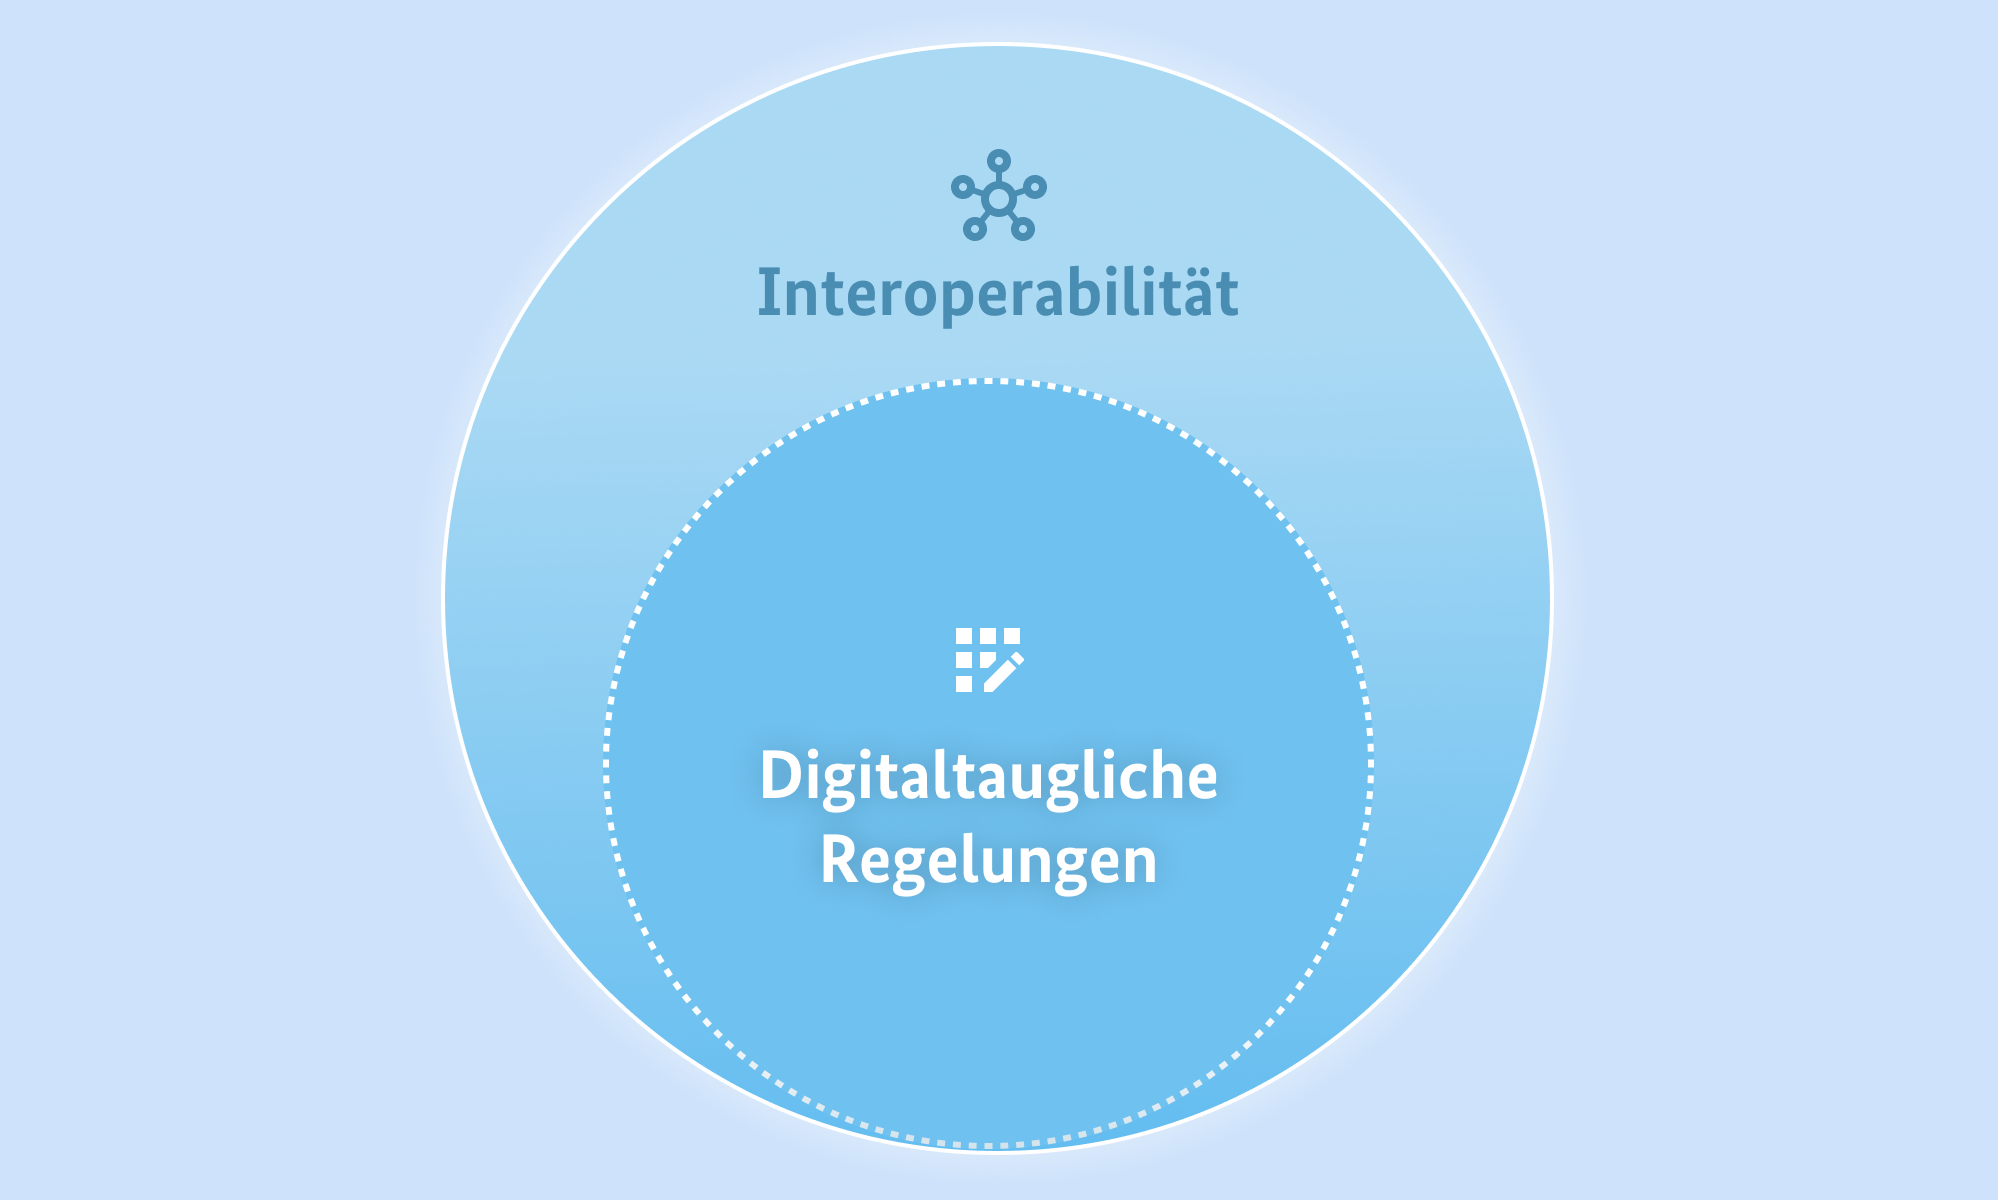
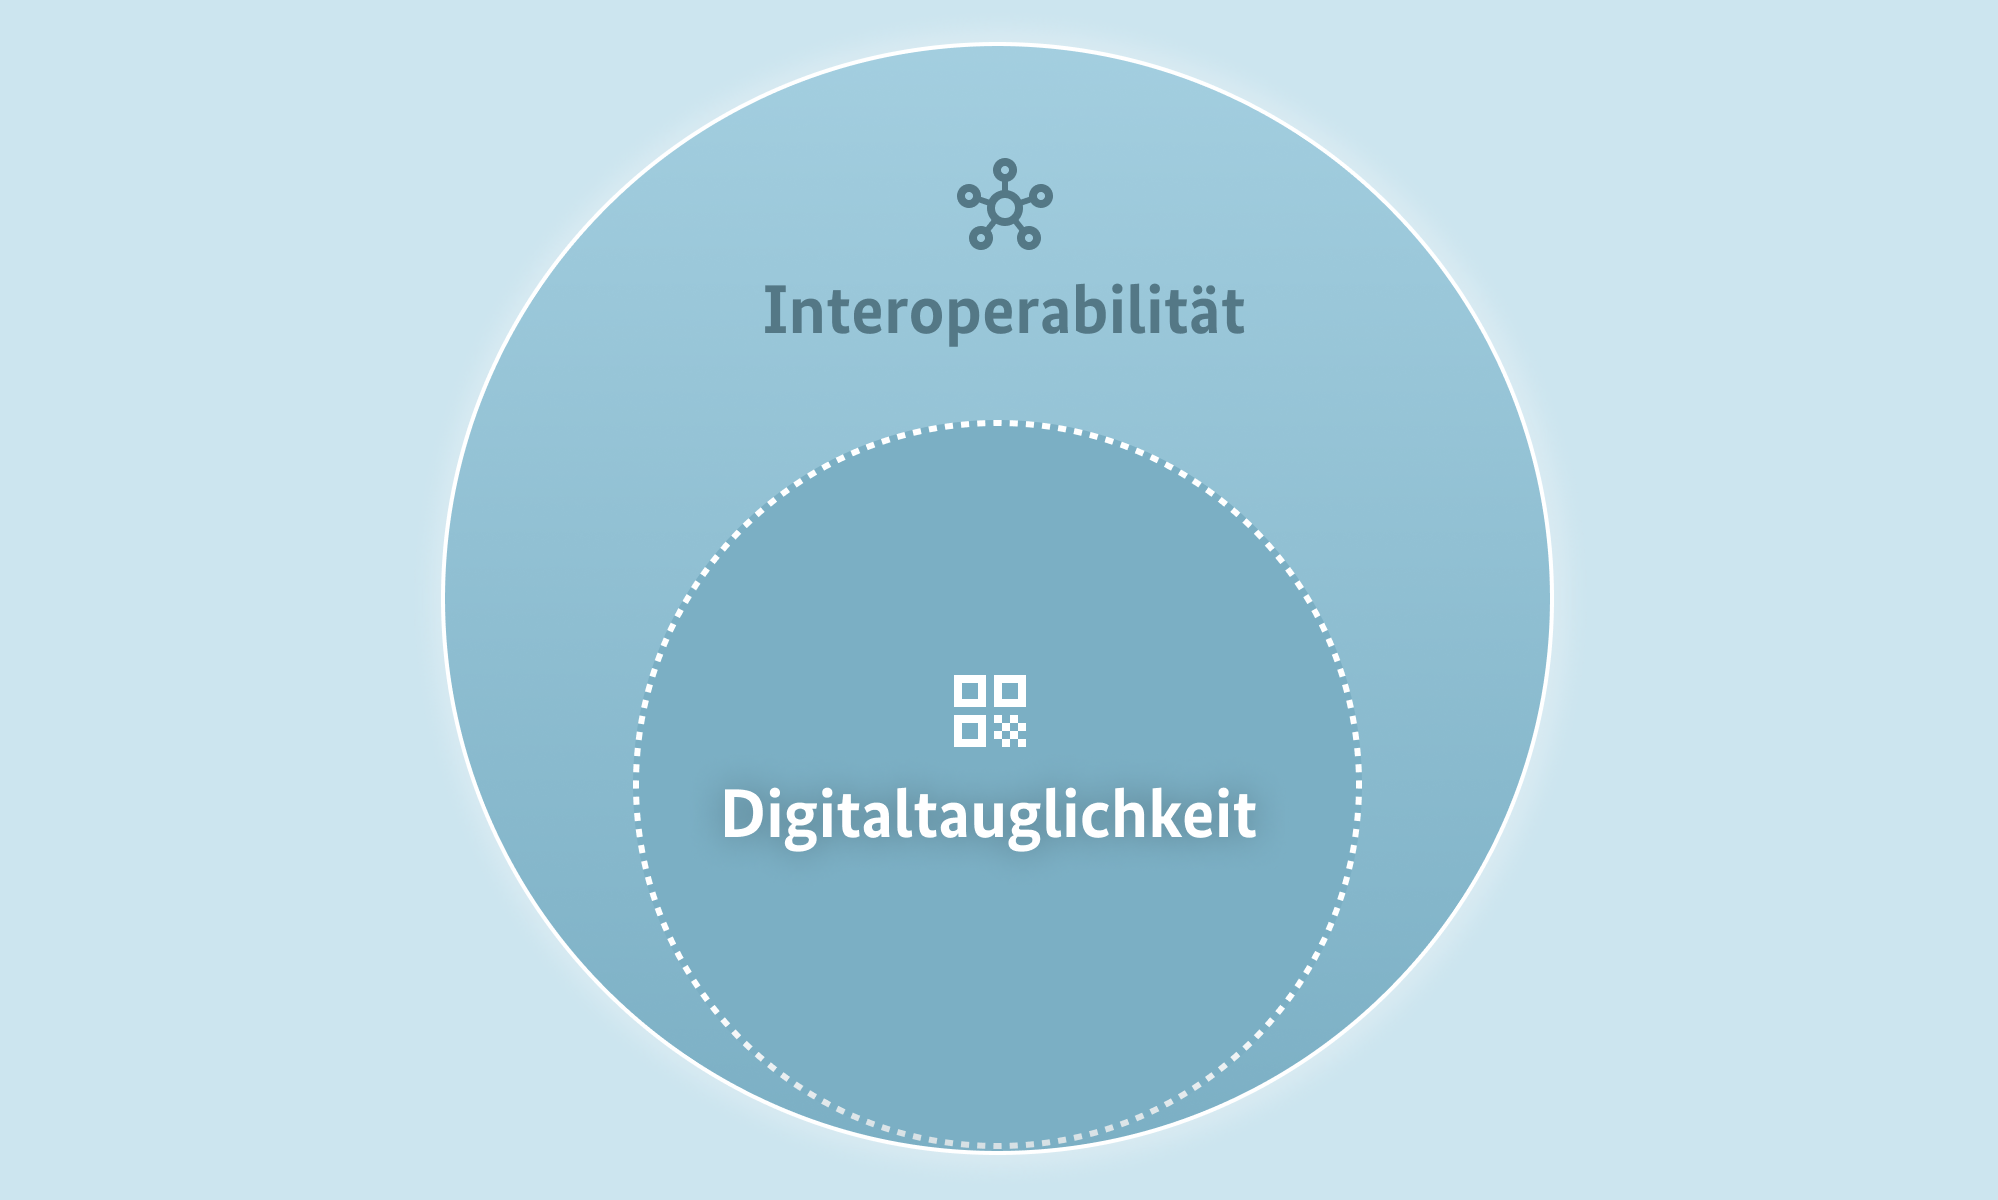
Replace diagram on /interoperabel

diff --git a/packages/dito/app/routes/interoperabel.tsx b/packages/dito/app/routes/interoperabel.tsx
@@ -72,7 +72,7 @@ export default function Interoperability() {
             <RichText markdown={interoperability.andDigitalReadiness.content} />
           </div>
           <div className="relative max-lg:mb-48 max-sm:hidden lg:w-1/2">
-            <div className="w-[630px] bg-[#cee3fb] lg:w-[50vw] [&>img]:object-contain [&>img]:lg:h-[420px]">
+            <div className="w-[630px] bg-[#cce5ef] lg:w-[50vw] [&>img]:object-contain [&>img]:lg:h-[420px]">
               <Image
                 url={interoperability.andDigitalReadiness.image.src}
                 alternativeText={interoperability.andDigitalReadiness.image.alt}
